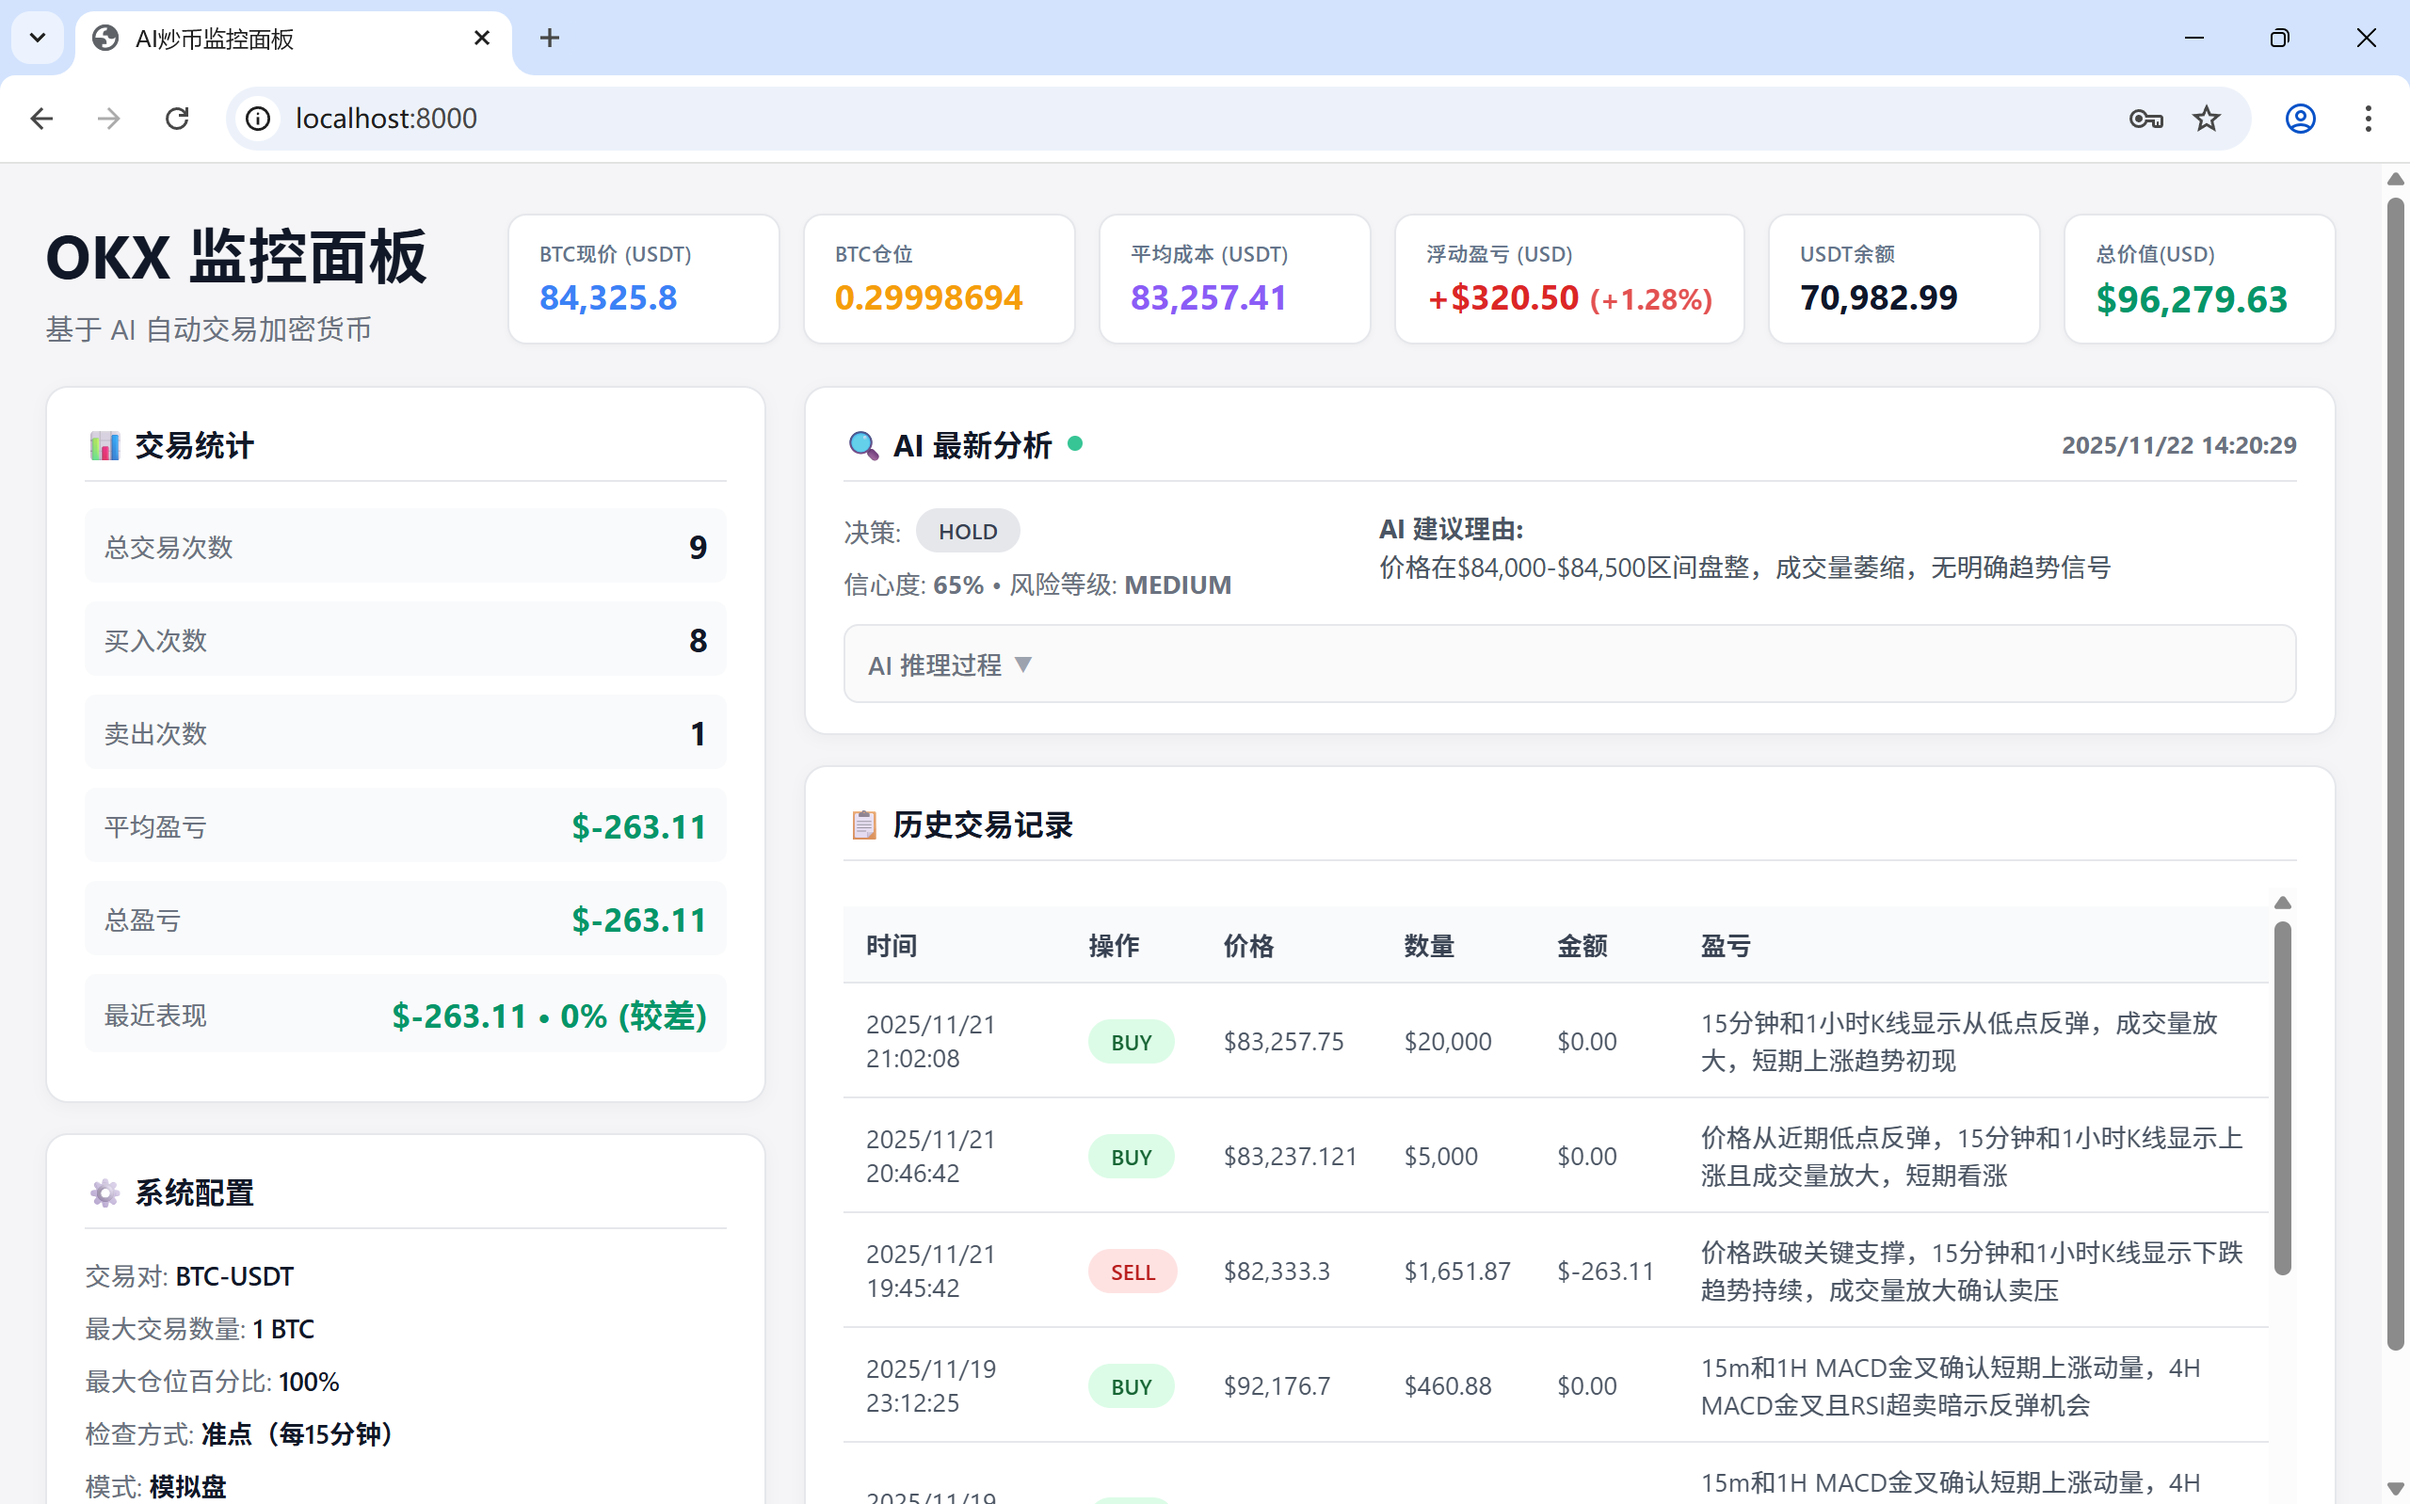
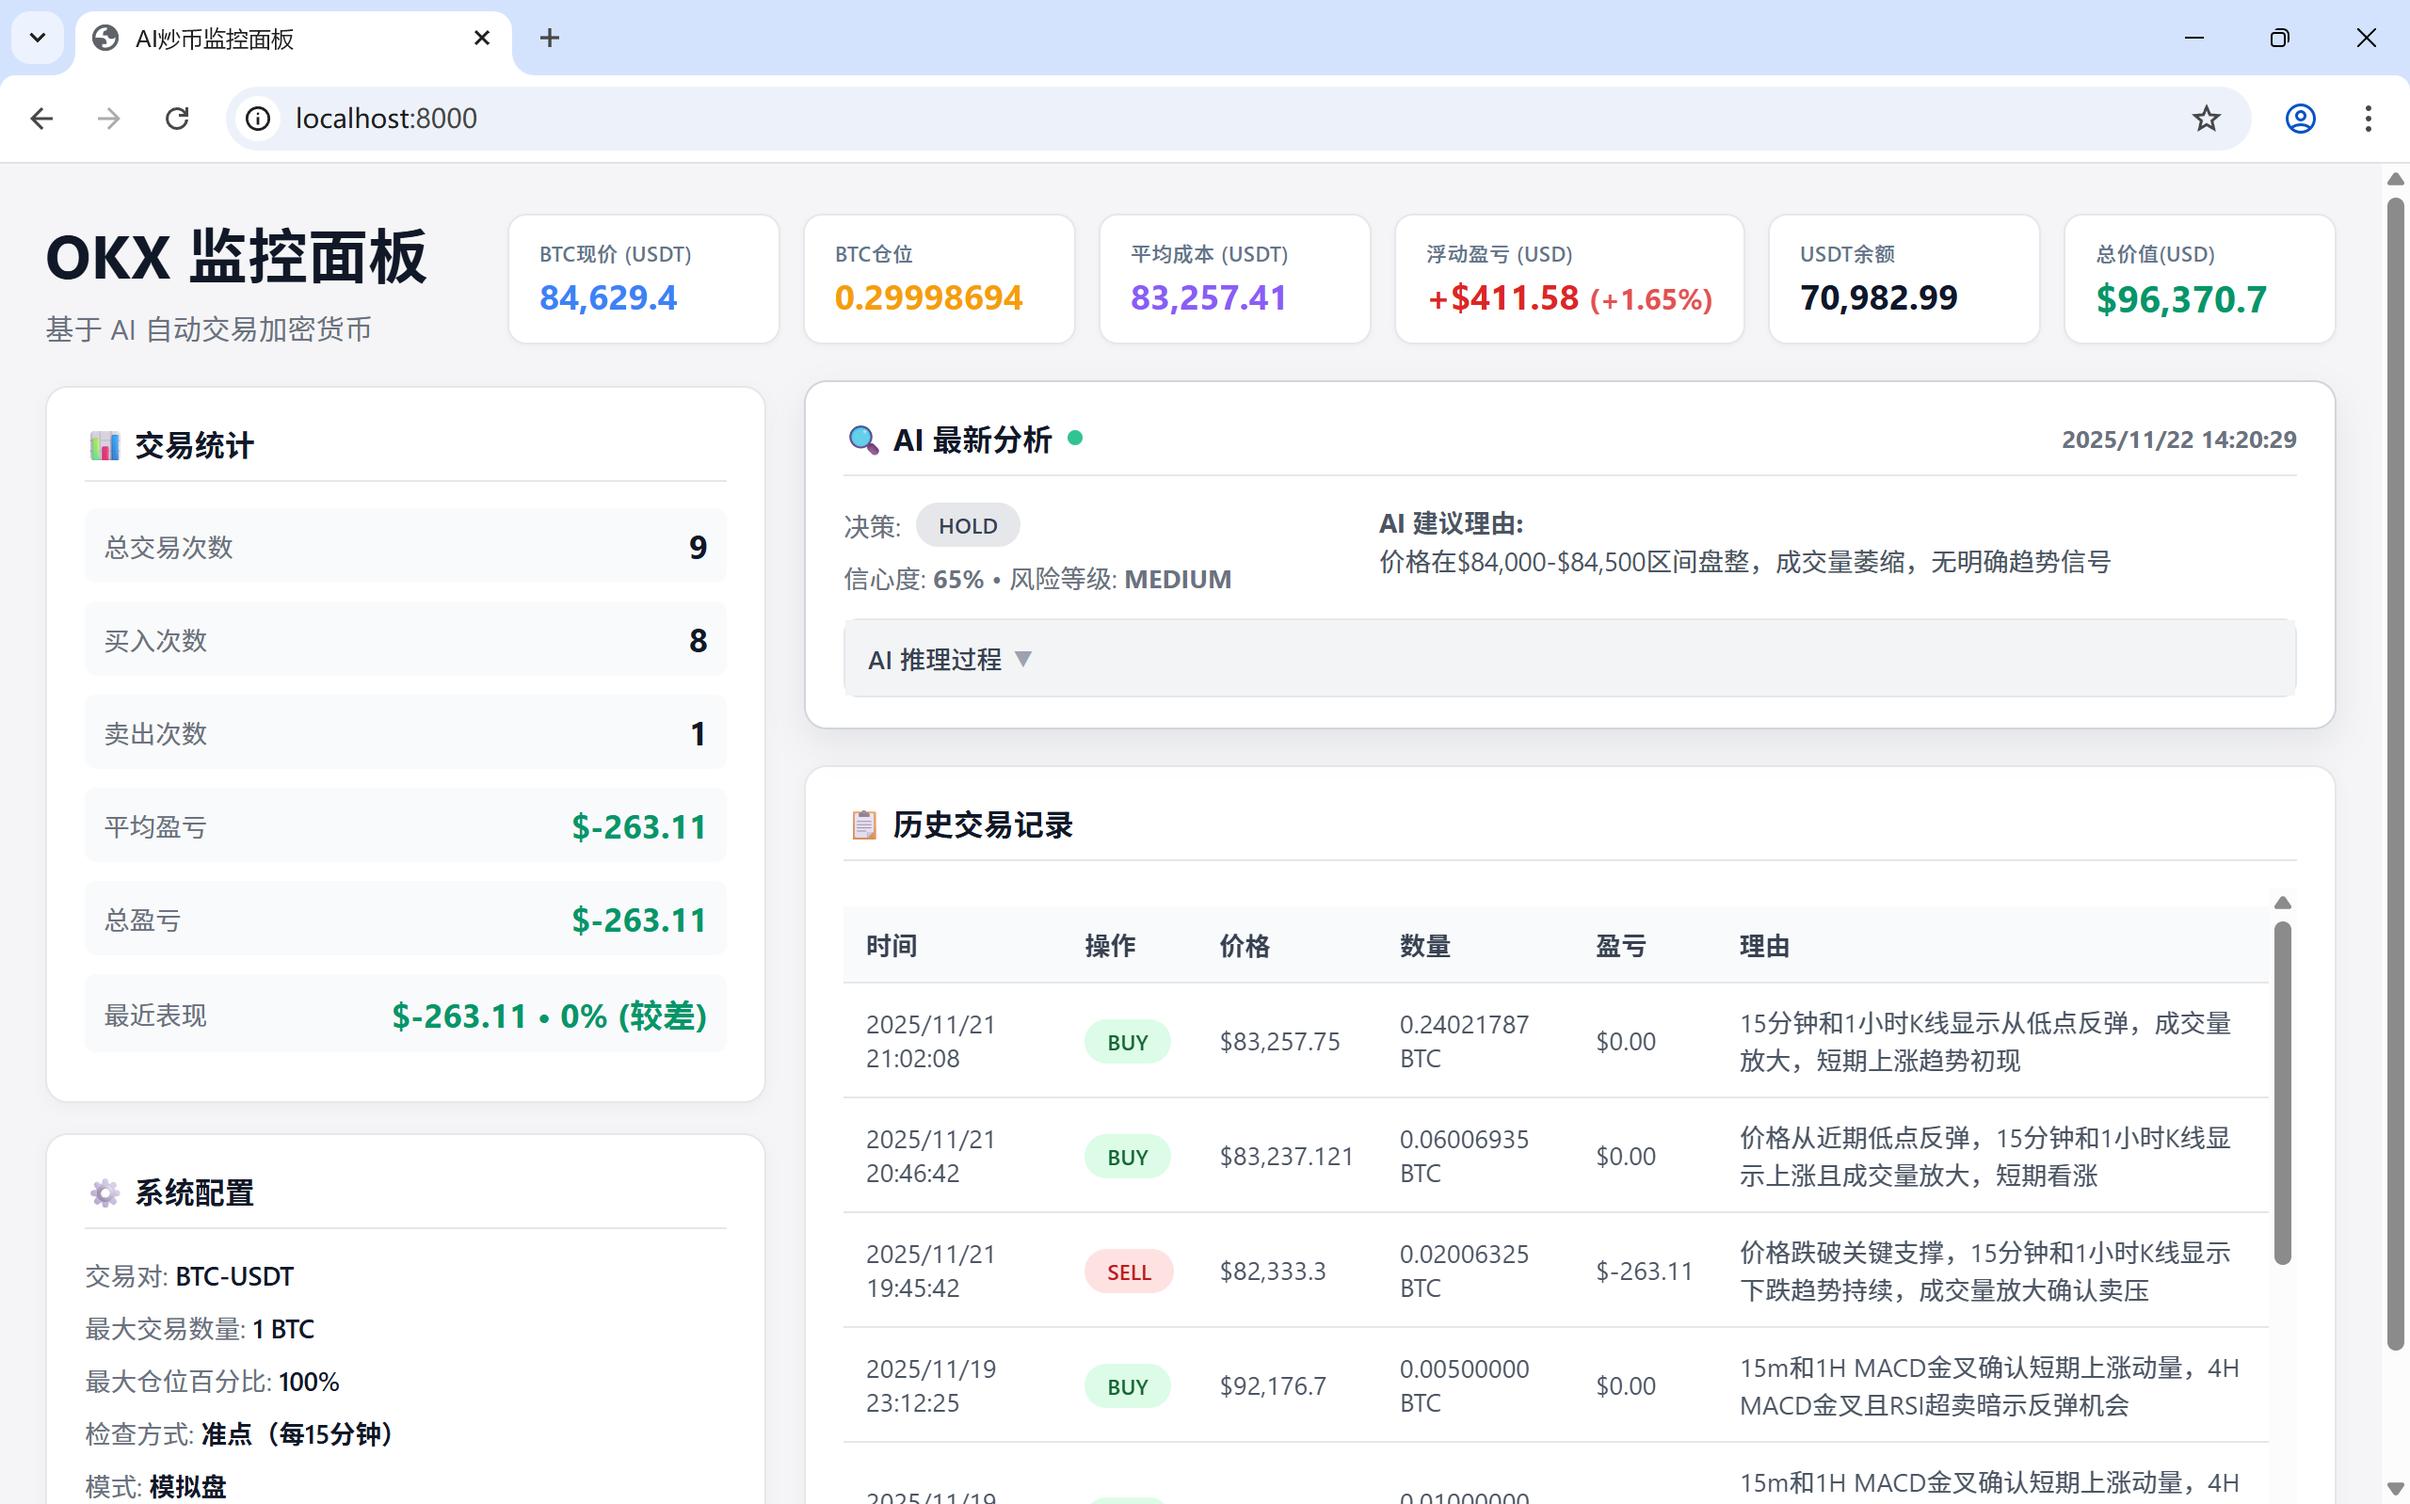
修正历史交易记录表头：调整数量、盈亏、理由列的显示顺序和数据对应关系

diff --git a/web/index.html b/web/index.html
@@ -884,8 +884,8 @@
                                 <th>操作</th>
                                 <th>价格</th>
                                 <th>数量</th>
-                                <th>金额</th>
                                 <th>盈亏</th>
+                                <th>理由</th>
                             </tr>
                         </thead>
                         <tbody>
@@ -895,14 +895,13 @@
                     const actionClass = trade.action === 'BUY' ? 'badge-buy' : 'badge-sell';
                     const profitClass = trade.profit >= 0 ? 'positive' : 'negative';
                     const timestamp = formatToBeijingTime(trade.timestamp);
-                    const usdtAmount = (trade.price * trade.amount).toFixed(2);
                     
                     html += `
                         <tr>
                             <td>${timestamp}</td>
                             <td><span class="badge ${actionClass}">${trade.action}</span></td>
                             <td>$${trade.price.toLocaleString()}</td>
-                            <td>$${parseFloat(usdtAmount).toLocaleString()}</td>
+                            <td>${trade.amount.toFixed(8)} BTC</td>
                             <td class="${profitClass}">$${trade.profit.toFixed(2)}</td>
                             <td>${trade.reason || '-'}</td>
                         </tr>
